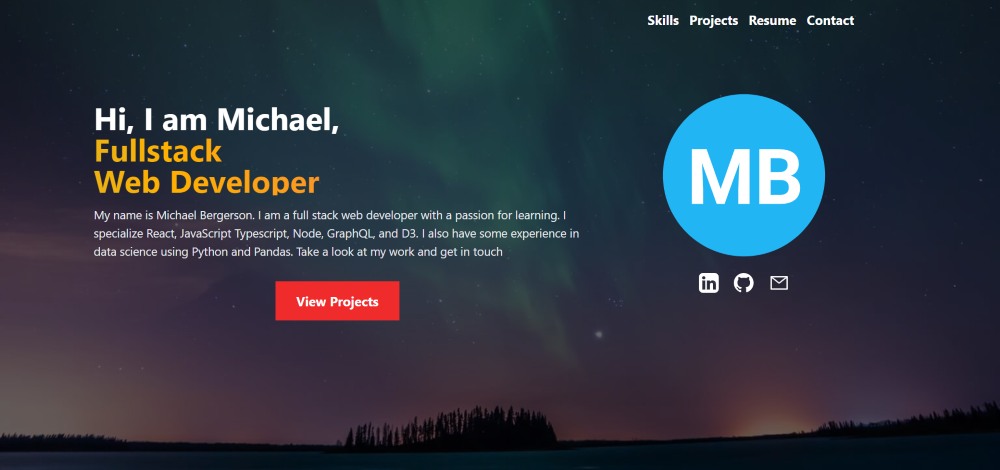
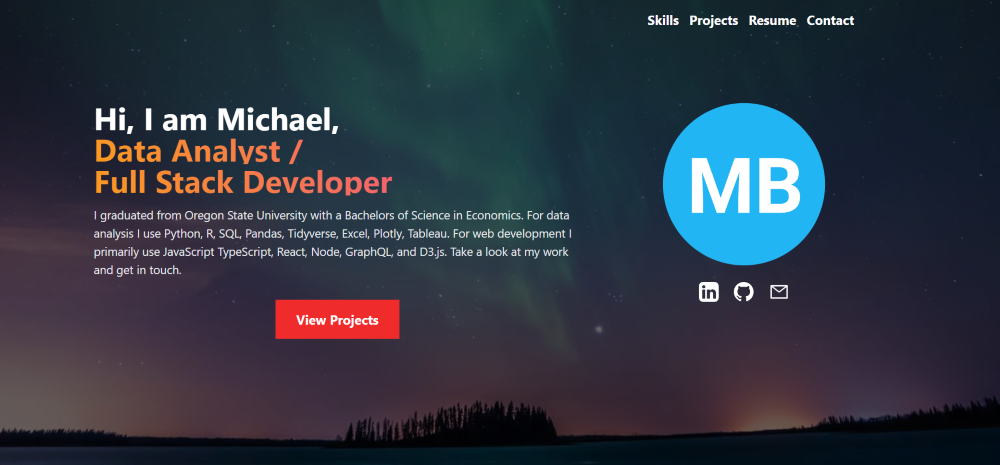
projects added

diff --git a/components/Skills.js b/components/Skills.js
@@ -4,7 +4,7 @@ const Skills = () => {
   return (
     <section id="skills" className="bg-[#2A343D] px-12 md:px-20 lg:px-36 py-16">
       <h1 className="text-white font-bold text-4xl mb-8">Skills</h1>
-      <div className=" grid grid-cols-5 bg-gray-200 mb-8">
+      {/* <div className=" grid grid-cols-5 bg-gray-200 mb-8">
         <div className="col-span-5 grid grid-cols-3 md:grid-cols-4 gap-8 place-content-center place-items-center border-grad py-8 px-4">
           <div className="">
             <span
@@ -103,8 +103,20 @@ const Skills = () => {
             <p>Postgresql</p>
           </div>
         </div>
-      </div>
+      </div> */}
       <div className="grid grid-cols-2 gap-y-8">
+        <h1 className="col-span-full text-white text-3xl">Data Analysis</h1>
+        <div className="col-span-full md:col-span-1">
+          <h1 className=" text-white text-2xl mb-4 text-center">Langauges</h1>
+          <p className="text-gray-100 text-center">Python, R, SQL, Git</p>
+        </div>
+        <div className="col-span-full md:col-span-1">
+          <h1 className="text-white text-2xl mb-4 text-center">Technologies</h1>
+          <p className="text-gray-100 text-center">
+            Pandas, Tidyverse, Excel, Plotly, Tableau
+          </p>
+        </div>
+        <h1 className="col-span-full text-white text-3xl">Web Development</h1>
         <div className="col-span-full md:col-span-1">
           <h1 className=" text-white text-2xl mb-4 text-center">Langauges</h1>
           <p className="text-gray-100 text-center">
@@ -115,7 +127,7 @@ const Skills = () => {
           <h1 className="text-white text-2xl mb-4 text-center">Technologies</h1>
           <p className="text-gray-100 text-center">
             <strong>Frontend:</strong> React, Next.js, D3.js, Three.js Tailwind
-            CSS, Urql, Pandas, Tidyverse
+            CSS, Urql
           </p>
           <p className="text-gray-100 text-center">
             <strong>Backend:</strong> Node, Express, Graphql, TypeOrm,

diff --git a/components/Projects.js b/components/Projects.js
@@ -1,6 +1,7 @@
 import Image from "next/image";
 import React from "react";
 import { projectData } from "../data/projectInfo";
+import { dataProject } from "../data/dataProject";
 
 const Projects = () => {
   return (
@@ -9,6 +10,41 @@ const Projects = () => {
       className="bg-gray-200 grid gap-3 px-8 md:px-20 lg:px-36 py-8"
     >
       <h1 className="font-bold text-4xl mb-5">Projects</h1>
+      <h2 className="font-bold text-3xl mb-5">Data Analytics</h2>
+      {dataProject.map((project) => (
+        <div
+          key={project.name}
+          className="grid md:grid-cols-5 justify-center mb-8"
+        >
+          <h2 className="font-bold text-2xl mb-2 md:col-span-5">
+            {project.name}
+          </h2>
+          <div className="col-span-1 md:col-span-5 lg:col-span-2 mb-4 lg:mb-0">
+            <Image
+              className="absolute top-0 left-0"
+              src={project.image}
+              width={project.iWidth}
+              height={project.iHeight}
+              alt={`${project.name} screenshot`}
+            />
+          </div>
+          <div className="md:col-span-5 lg:col-span-3 grid md:grid-cols-4 place-content-center">
+            <p className="md:col-span-4 mx-8 md:text-lg">{project.info}</p>
+            <div className="md:col-span-4 flex justify-center mt-8">
+              <div className="">
+                <a
+                  aria-label="go to website"
+                  className="px-3 py-2 bg-[#F02B2B] text-center font-bold text-white text-lg mr-4"
+                  href={project.Link}
+                >
+                  Website
+                </a>
+              </div>
+            </div>
+          </div>
+        </div>
+      ))}
+      <h2 className="font-bold text-3xl mb-5">Web Development</h2>
       {projectData.map((project) => (
         <div
           key={project.name}

diff --git a/components/Hero.js b/components/Hero.js
@@ -40,17 +40,17 @@ const Hero = ({ isMobile, isOpen, setIsOpen }) => {
               Hi, I am Michael,
             </h1>
             <h1 className="text-grad text-white text-3xl sm:text-4xl  md:text-5xl font-bold underline">
-              Fullstack
+              Data Analyst /
             </h1>
             <h1 className="text-grad text-white text-3xl sm:text-4xl  md:text-5xl font-bold underline">
-              Web Developer
+              Full Stack Developer
             </h1>
             <p className="text-sm md:text-lg text-gray-200 mt-4">
               I graduated from Oregon State University with a Bachelors of
-              Science in Economics. I primarily use JavaScript Typescript,
-              React, Node, GraphQL, and D3.js. I also completed the Google Data
-              Analytics certificate and have experience using Python and R for
-              data science. Take a look at my work and get in touch.
+              Science in Economics. For data analysis I use Python, R, SQL,
+              Pandas, Tidyverse, Excel, Plotly, Tableau. For web development I
+              primarily use JavaScript TypeScript, React, Node, GraphQL, and
+              D3.js. Take a look at my work and get in touch.
             </p>
             <a
               href="#projects"

diff --git a/data/dataProject.js b/data/dataProject.js
@@ -1,0 +1,18 @@
+export const dataProject = [
+  {
+    name: "US Car Accidents Traffic Dataset Analysis In Python",
+    image: "/images/US Car Accidents Traffic Data Analysis.png",
+    info: "Dataset contains 1.5 million records of US car accidents that impacted traffic. I Used Python and Pandas to manipulate and clean the data. I Created data visualizations using Plotly",
+    Link: "https://www.kaggle.com/michaelbergerson/us-car-accidents-traffic-data-analysis",
+    iWidth: 1920,
+    iHeight: 892,
+  },
+  {
+    name: "Fitbit Data Set Analysis In R",
+    image: "/images/Bellabeat Case Study.png",
+    info: "Dataset contained 30 Fitbit user’s personal tracker data, including physical activity, and sleep monitoring. I Used R and Tidyverse to manipulate and clean the data. I Created data visualizations using ggplot2",
+    Link: "https://www.kaggle.com/michaelbergerson/bellabeat-case-study/",
+    iWidth: 1920,
+    iHeight: 820,
+  },
+];
